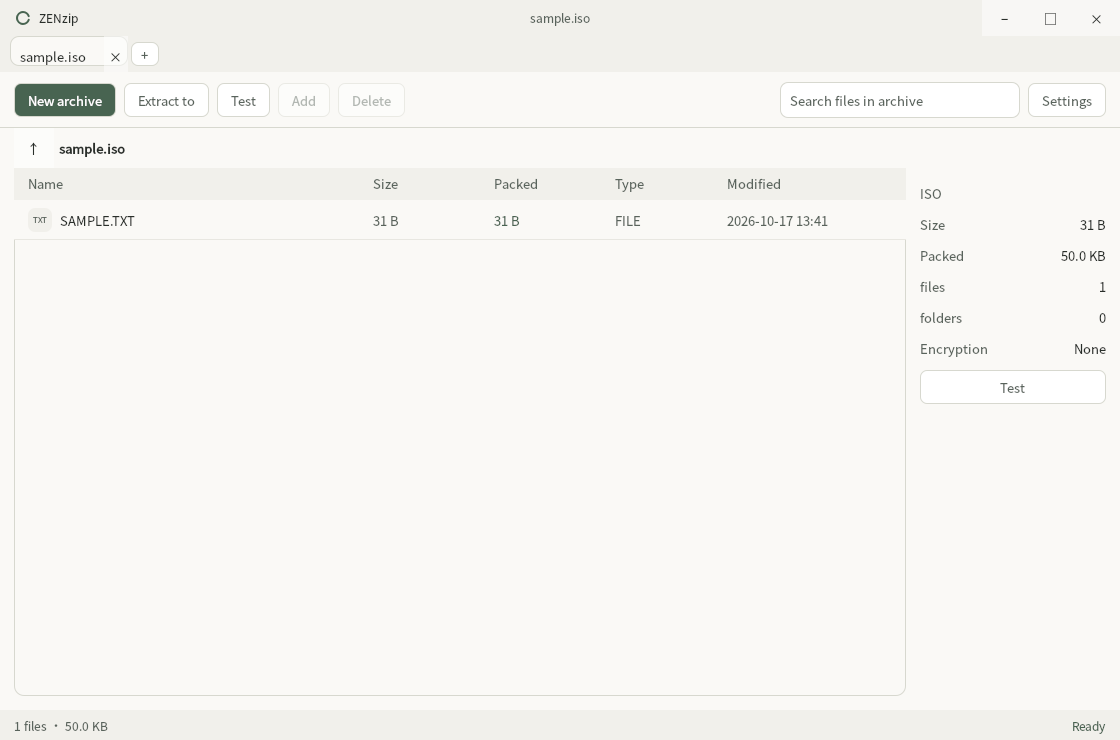
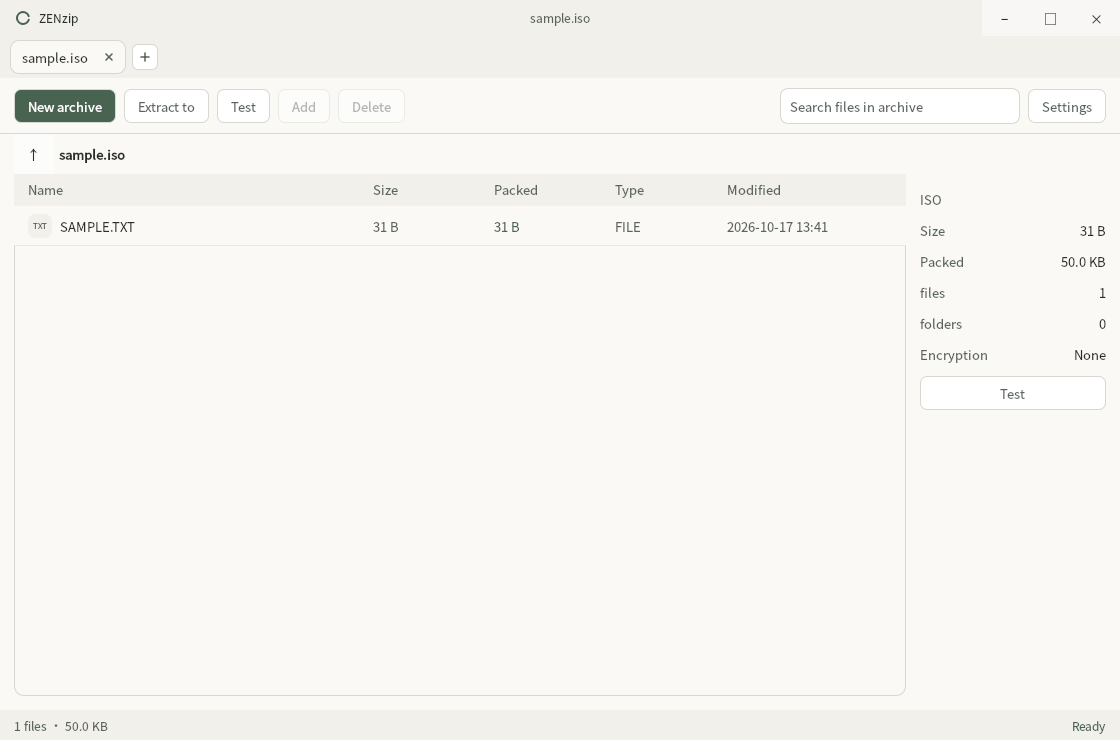
docs: verify 0.4.1 previews and fix draft discovery (#9)

diff --git a/native/tools/publish-native.py b/native/tools/publish-native.py
@@ -57,6 +57,13 @@ def gh(*arguments, json_result=False):
     return json.loads(result) if json_result else result
 
 
+def find_release(repo, tag):
+    # The tag endpoint can return 404 for a newly created draft. The authenticated
+    # release list includes drafts and is also the resumable lookup path.
+    releases = gh('api', f'repos/{repo}/releases?per_page=100', json_result=True)
+    return next((release for release in releases if release['tag_name'] == tag), None)
+
+
 def main():
     parser = argparse.ArgumentParser(description=__doc__)
     parser.add_argument('--candidate-dir', required=True, type=pathlib.Path)
@@ -112,15 +119,14 @@ Windows packages are unsigned. macOS packages are ad-hoc signed and not notarize
         assert exact[0]['object']['type'] == 'commit' and exact[0]['object']['sha'] == source, 'Existing tag does not identify this tested source'
     else:
         gh('api', '--method', 'POST', f'repos/{repo}/git/refs', '-f', 'ref=refs/tags/' + tag, '-f', 'sha=' + source)
-    releases = gh('api', f'repos/{repo}/releases?per_page=100', json_result=True)
-    matches = [item for item in releases if item['tag_name'] == tag]
-    if matches:
-        release = matches[0]
+    release = find_release(repo, tag)
+    if release:
         assert release['draft'] is True, 'Refusing to replace a published release'
     else:
         gh('release', 'create', tag, '--repo', repo, '--verify-tag', '--title', 'ZENzip ' + version,
            '--notes-file', notes, '--draft')
-        release = gh('api', f'repos/{repo}/releases/tags/{tag}', json_result=True)
+        release = find_release(repo, tag)
+        assert release and release['draft'] is True, 'New draft not visible; rerun to resume promotion'
     release_id = release['id']
     for name in sorted(expected):
         current = gh('api', f'repos/{repo}/releases/{release_id}', json_result=True)

diff --git a/native/tests/release/promotion.py b/native/tests/release/promotion.py
@@ -6,6 +6,7 @@ import json
 import pathlib
 import tempfile
 import unittest
+from unittest.mock import patch
 
 path = pathlib.Path(__file__).resolve().parents[2] / 'tools/publish-native.py'
 spec = importlib.util.spec_from_file_location('publish_native', path)
@@ -79,6 +80,21 @@ class PromotionValidation(unittest.TestCase):
         data['artifacts'][0]['file'] = '../outside.exe'
         self.edit(artifacts=data['artifacts'])
         with self.assertRaises(AssertionError): self.validate()
+
+    def test_draft_is_found_without_the_published_tag_endpoint(self):
+        draft = dict(id=7, tag_name='v99.1.2', draft=True)
+        def api(*arguments, **kwargs):
+            # Mirror GitHub's observed draft lookup behavior, not an existing
+            # published release. Calling the tag endpoint would fail here.
+            if arguments == ('api', 'repos/example/project/releases?per_page=100'):
+                return [draft]
+            raise RuntimeError('Draft is not visible through the tag endpoint')
+        with patch.object(publisher, 'gh', side_effect=api):
+            self.assertEqual(publisher.find_release('example/project', 'v99.1.2'), draft)
+
+    def test_absent_draft_returns_none(self):
+        with patch.object(publisher, 'gh', return_value=[]):
+            self.assertIsNone(publisher.find_release('example/project', 'v99.1.2'))
 
 
 if __name__ == '__main__':

diff --git a/docs/verification-0.4.1.md b/docs/verification-0.4.1.md
@@ -6,6 +6,14 @@ Stable maintenance release containing the localized settings fixes from PR #3 an
 
 The release workflow promotes artifacts only from a successful Native candidate run on main whose source commit matches the checked-out release sources. All six OS/architecture manifests must name version 0.4.1 and the same clean source commit. Every package is checked against its manifest SHA-256 before upload, and every uploaded asset is checked against GitHub's reported digest before publication. The release page links the exact candidate run and source commit.
 
+## Published build evidence
+
+- Source: `e9d7c405f44f95c62838db2e21b3f4f27fbf58c9`.
+- [Native candidate 39143335032](https://github.com/whh110112/ZENzip/actions/runs/39143335032): six targets passed, 15/15 CTest per target, packaging and aggregate verification passed.
+- The earlier [Native foundation run](https://github.com/whh110112/ZENzip/actions/runs/39140865402) passed all six targets on the identical native source tree; the later source checkpoint changes only CI collection/concurrency metadata.
+- The paired README previews were copied byte-for-byte from this compiled Windows build and verified against its capture manifest. Thirty dedicated native tab captures were also retrieved; Chinese, Arabic Ink and Hindi Slate samples were manually reviewed.
+- Documentation and release-tool follow-up leaves the published application/runtime sources unchanged.
+
 ## Regression and packaging scope
 
 - Windows, macOS and Linux, each x64 and ARM64: 15 CTest suites, architecture checks and isolated application/worker startup.

diff --git a/README.md b/README.md
@@ -8,7 +8,7 @@ A quiet, cross-platform archive manager. Native 7-Zip and a simple Qt Quick inte
 
 [Download](https://github.com/whh110112/ZENzip/releases/tag/v0.4.1) · [Installation](native/docs/installation-guide.md) · [Known limitations](native/docs/known-limitations.md)
 
-![ZENzip English interface](docs/screenshots/en.png)
+![ZENzip 0.4.1 English interface](docs/screenshots/en.png)
 
 ## A little less noise
 

diff --git a/README.zh-CN.md b/README.zh-CN.md
@@ -8,7 +8,7 @@
 
 [下载](https://github.com/whh110112/ZENzip/releases/tag/v0.4.1) · [安装指南](native/docs/installation-guide.md) · [已知限制](native/docs/known-limitations.md)
 
-![ZENzip 简体中文界面](docs/screenshots/zh-CN.png)
+![ZENzip 0.4.1 简体中文界面](docs/screenshots/zh-CN.png)
 
 ## 少一点纷扰
 
